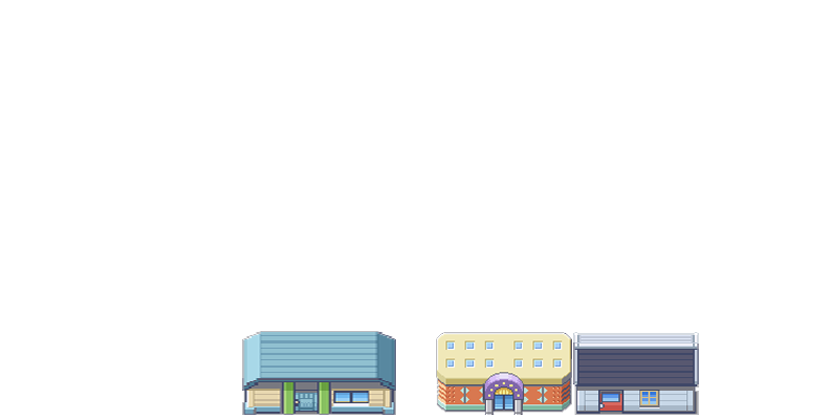
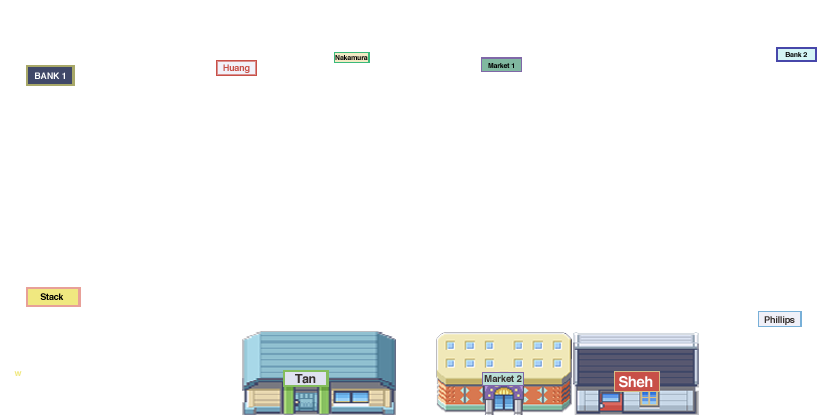
Intermediate commit to integrating restaurant into city. Also changed city gui to incorporate signs on buildings and busstops.

diff --git a/src/restaurant/shehRestaurant/WaiterAgent.java b/src/restaurant/shehRestaurant/WaiterAgent.java
@@ -1,6 +1,7 @@
 package restaurant.shehRestaurant;
 
 import agent.Agent;
+import agent.Role;
 import restaurant.shehRestaurant.gui.Bill;
 import restaurant.shehRestaurant.gui.Menu;
 import restaurant.shehRestaurant.gui.Order.OrderCookState;
@@ -17,7 +18,7 @@ import java.util.concurrent.Semaphore;
 /**
  * Restaurant Waiter Agent
  */
-public class WaiterAgent extends Agent implements Waiter {
+public class WaiterAgent extends Role implements Waiter {
 	static final int NTABLES = 3;
 	public List<CustomerAgent> waitingCustomers = Collections.synchronizedList(new ArrayList<CustomerAgent>());
 	private List<myCustomer> customers = Collections.synchronizedList(new ArrayList<myCustomer>());
@@ -210,7 +211,7 @@ public class WaiterAgent extends Agent implements Waiter {
 	/**
 	 * Scheduler.  Determine what action is called for, and do it.
 	 */
-	protected boolean pickAndExecuteAnAction() {
+	public boolean pickAndExecuteAnAction() {
 		synchronized(customers) {
 			for (myCustomer c : customers) {
 				if (c.s == CustomerState.WaitingInRestaurant) {

diff --git a/src/restaurant/shehRestaurant/CookAgent.java b/src/restaurant/shehRestaurant/CookAgent.java
@@ -1,6 +1,7 @@
 package restaurant.shehRestaurant;
 
 import agent.Agent;
+import agent.Role;
 import restaurant.shehRestaurant.gui.CookGui;
 import restaurant.shehRestaurant.gui.FoodData;
 import restaurant.shehRestaurant.gui.Menu;
@@ -19,7 +20,7 @@ import java.util.concurrent.Semaphore;
 /**
  * Restaurant Cook Agent
  */
-public class CookAgent extends Agent implements Cook {
+public class CookAgent extends Role implements Cook {
 	private List<Order> orders = Collections.synchronizedList(new ArrayList<Order>());
 	Timer timer = new Timer();
 	Menu menu = new Menu();
@@ -101,7 +102,7 @@ public class CookAgent extends Agent implements Cook {
 	/**
 	 * Scheduler.  Determine what action is called for, and do it.
 	 */
-	protected boolean pickAndExecuteAnAction() {
+	public boolean pickAndExecuteAnAction() {
 		for (Order o : orders) {
 			if (o.cs == OrderCookState.Pending) {
 				CookingOrder(o);

diff --git a/src/restaurant/shehRestaurant/CashierAgent.java b/src/restaurant/shehRestaurant/CashierAgent.java
@@ -9,8 +9,6 @@ import restaurant.shehRestaurant.interfaces.Cashier;
 import restaurant.shehRestaurant.interfaces.Customer;
 import restaurant.shehRestaurant.interfaces.Market;
 import restaurant.shehRestaurant.interfaces.Waiter;
-import restaurant.shehRestaurant.MarketAgent;
-
 import restaurant.shehRestaurant.gui.Bill.OrderBillState;
 
 import restaurant.shehRestaurant.test.mock.EventLog;
@@ -18,7 +16,7 @@ import restaurant.shehRestaurant.test.mock.EventLog;
 import java.util.*;
 
 /**
- * Restaurant Cook Agent
+ * Restaurant Cashier Agent
  */
 public class CashierAgent extends Agent implements Cashier {
 	public List<myCustomer> myCustomers = Collections.synchronizedList(new ArrayList<myCustomer>());

diff --git a/src/restaurant/shehRestaurant/HostAgent.java b/src/restaurant/shehRestaurant/HostAgent.java
@@ -1,6 +1,7 @@
 package restaurant.shehRestaurant;
 
 import agent.Agent;
+import agent.Role;
 import restaurant.shehRestaurant.gui.HostGui;
 import restaurant.shehRestaurant.gui.Table;
 
